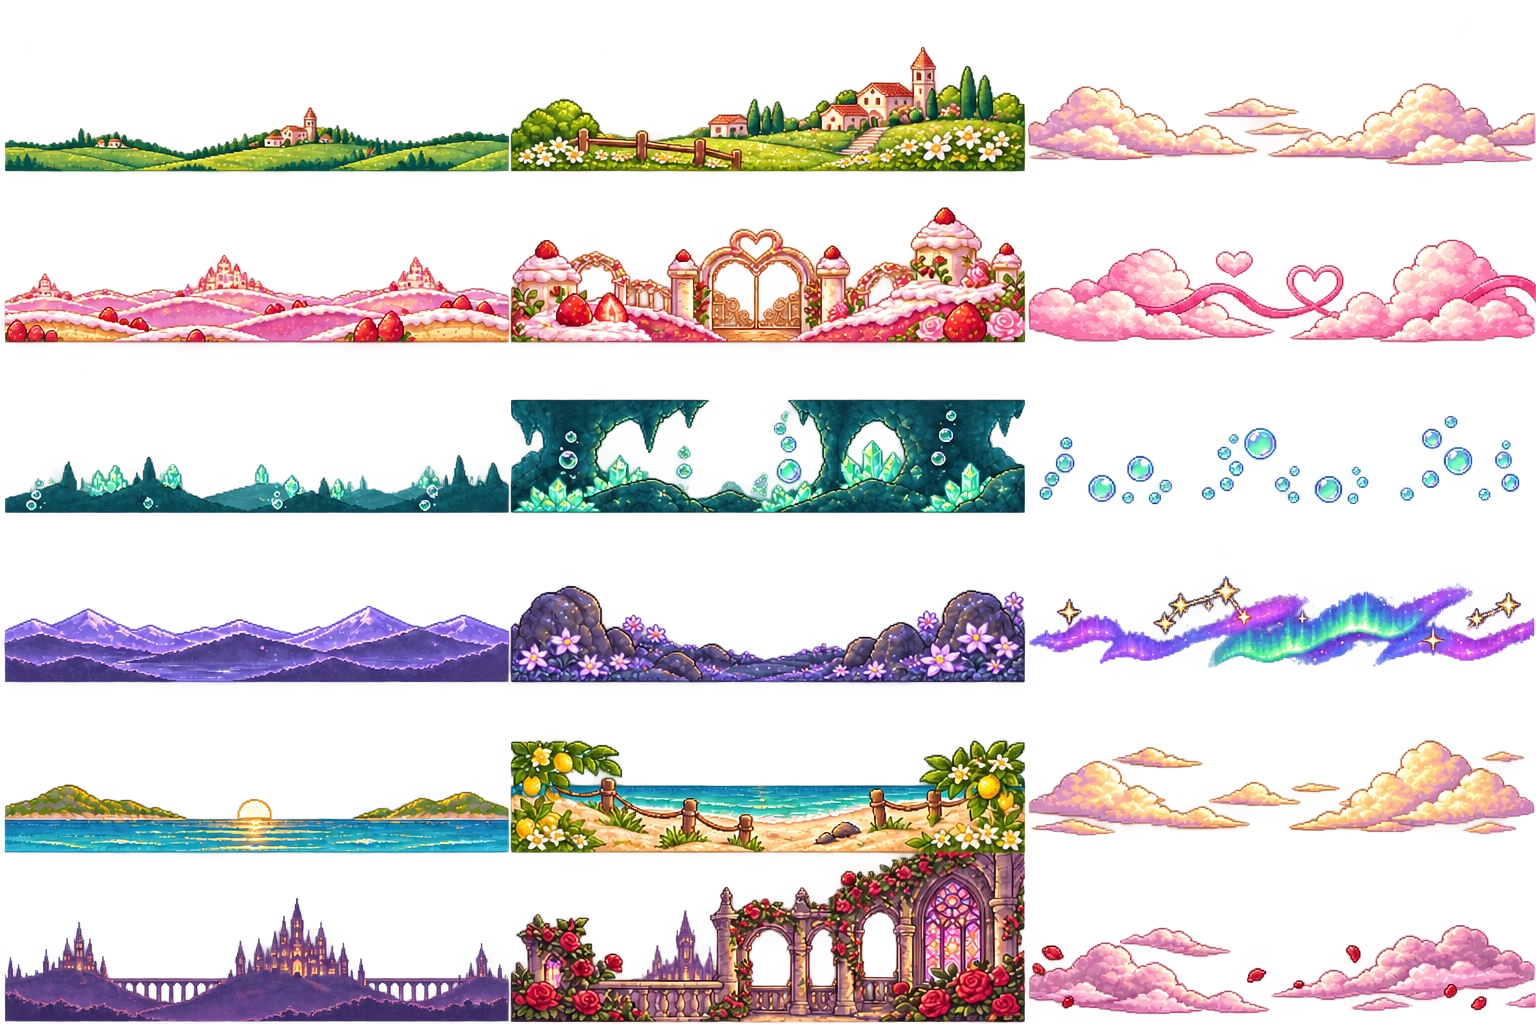
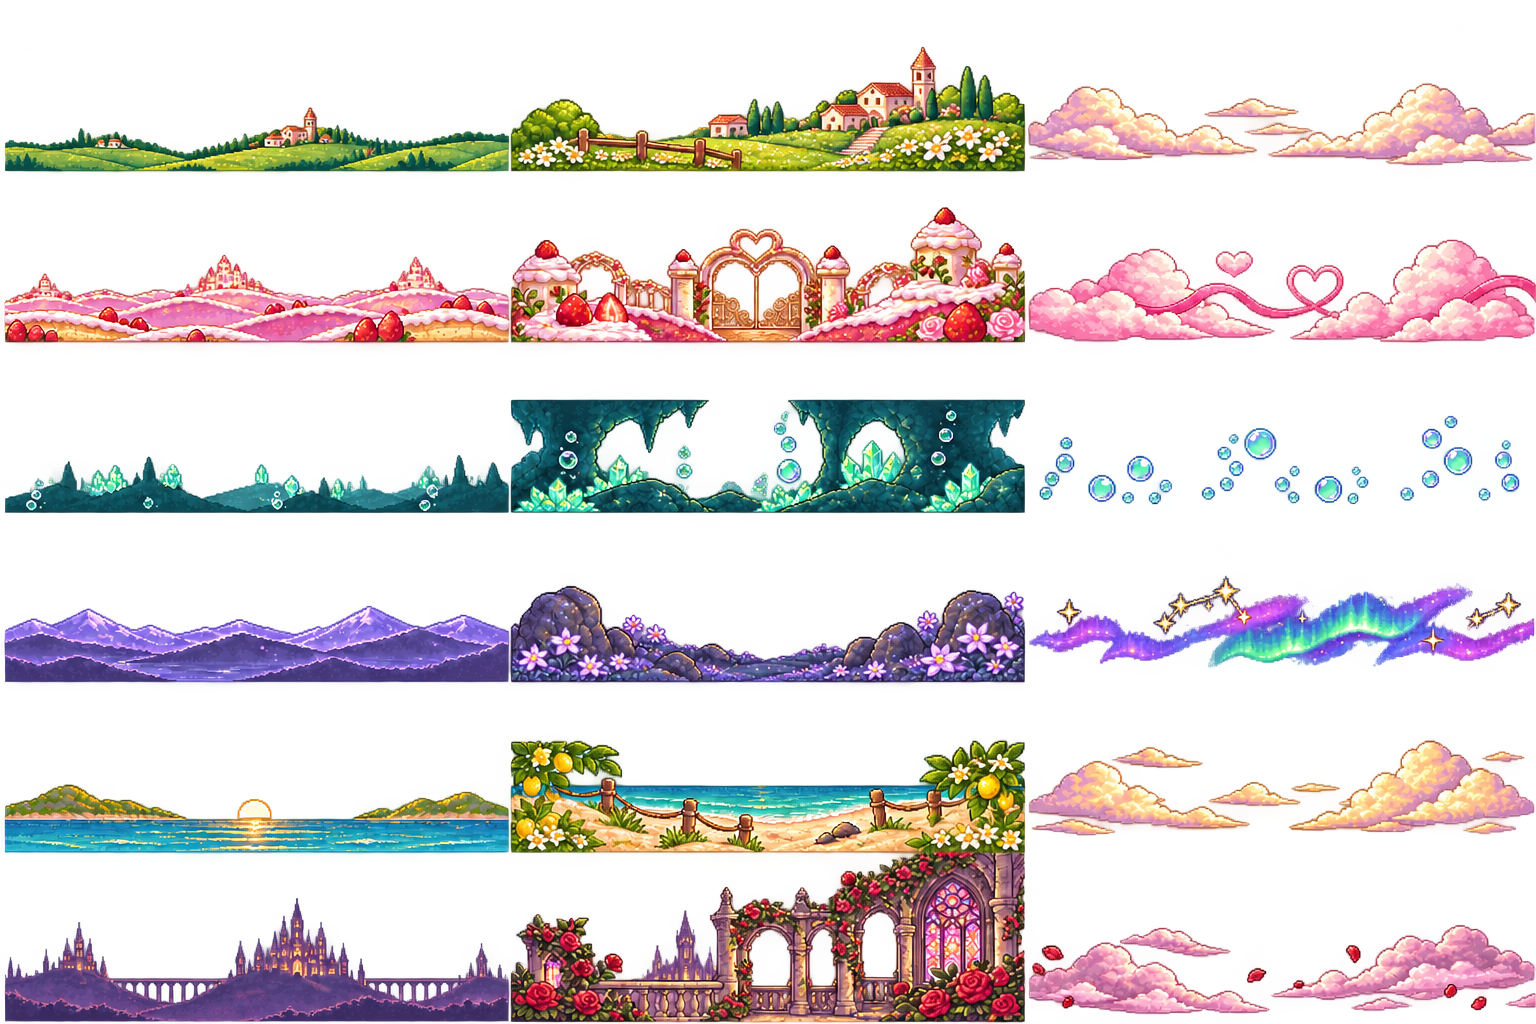
Keep pixel atlases lossless and track assets in the build id
Lossy WebP smeared the pixel-art edges once the atlases were scaled up,
so store them lossless. The build id now hashes every shipped file
instead of only main.dart.js, otherwise an art-only deploy would leave
clients on the old cached images.

diff --git a/scripts/build_web_release.py b/scripts/build_web_release.py
@@ -100,8 +100,17 @@ def prune_engine(build: Path) -> int:
 
 
 def write_build_id() -> str:
-    main_js = BUILD / "main.dart.js"
-    build_id = hashlib.sha256(main_js.read_bytes()).hexdigest()
+    """构建标识覆盖代码和资源，避免只换图集时离线缓存不失效。"""
+    digest = hashlib.sha256()
+    for path in sorted(BUILD.rglob("*")):
+        if not path.is_file() or path.suffix == ".gz" or path.name in SKIP_NAMES:
+            continue
+        rel = path.relative_to(BUILD).as_posix().encode()
+        digest.update(rel)
+        data = path.read_bytes()
+        digest.update(len(data).to_bytes(8, "little"))
+        digest.update(data)
+    build_id = digest.hexdigest()
     (BUILD / ".last_build_id").write_text(build_id, encoding="utf-8")
     return build_id
 
